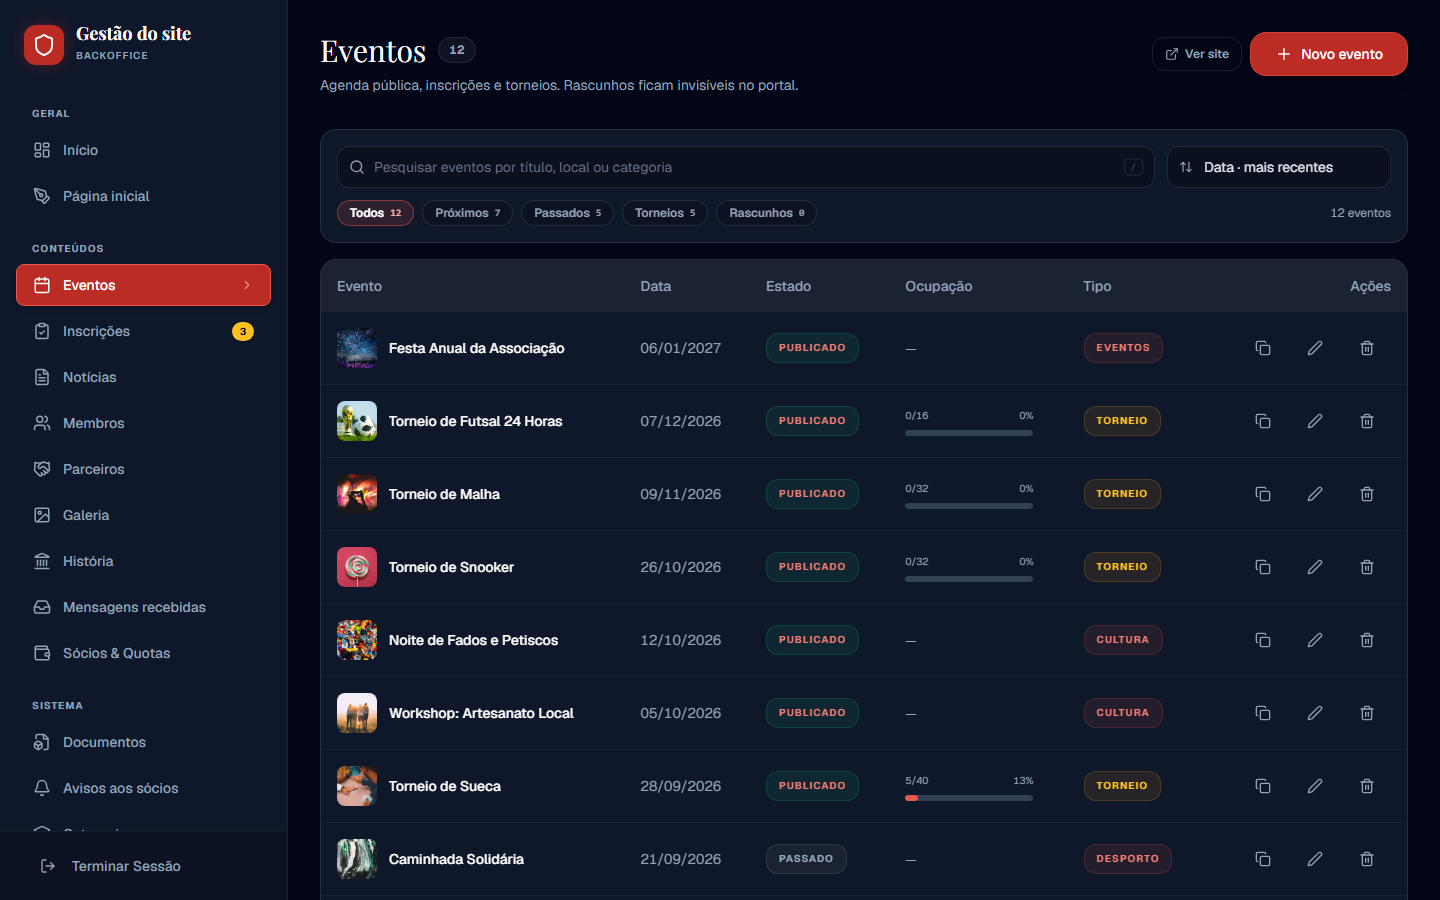
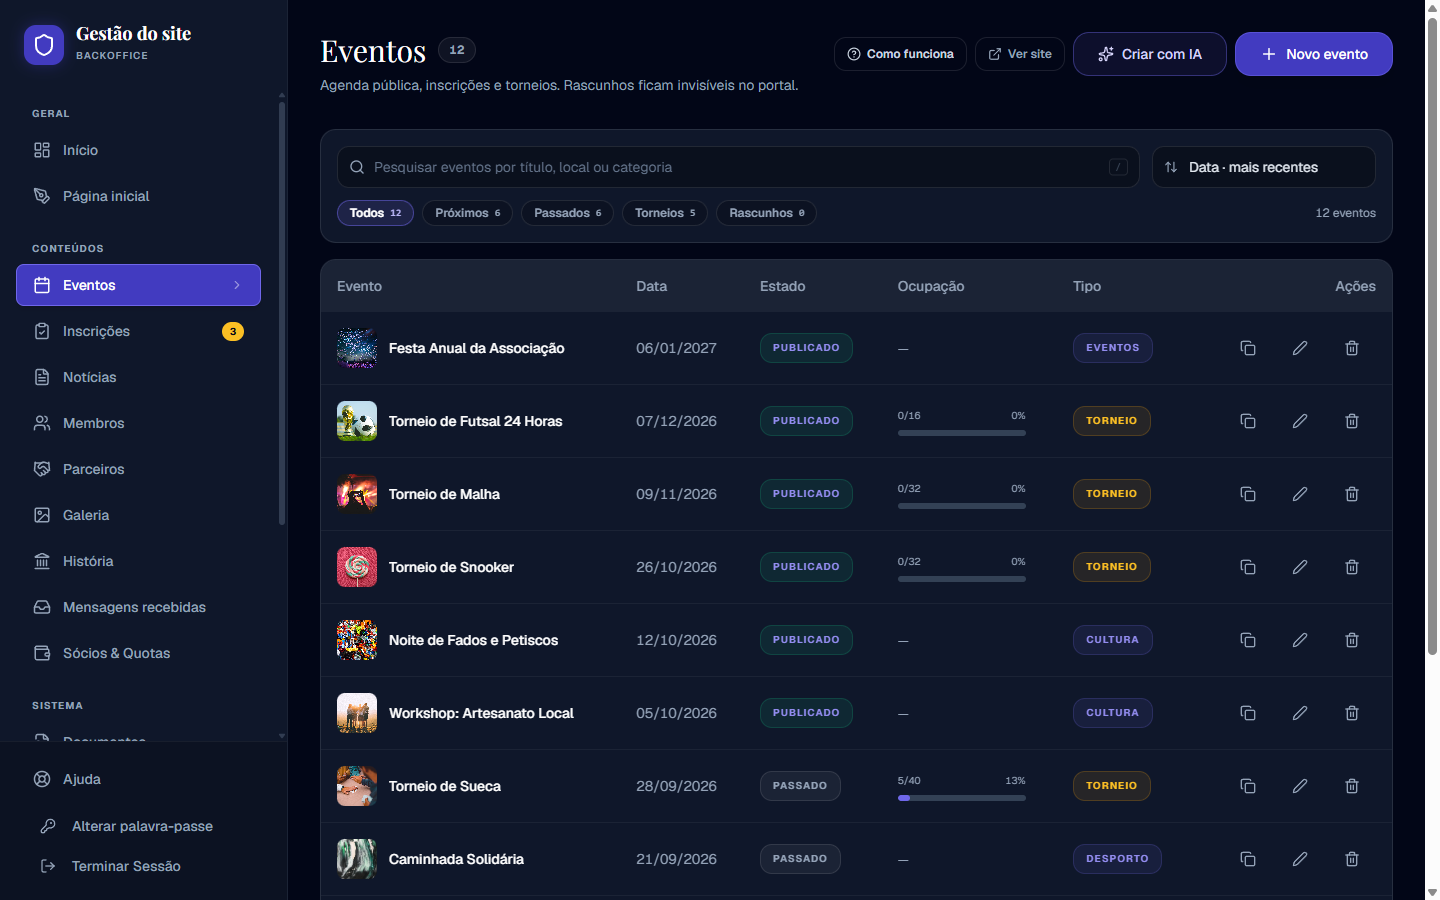
docs: README screenshots from the 2.17 demo (neutral brand), plus the AI studio and the help center

diff --git a/README.pt.md b/README.pt.md
@@ -75,6 +75,10 @@ run seed:seed`), sem marca de nenhum cliente. A visita guiada de um minuto está
 |:---:|:---:|
 | ![Dashboard admin](docs/assets/admin-dashboard.png) | ![Eventos no admin](docs/assets/admin-events.png) |
 
+| Estúdio de IA: uma frase dá o evento com cartaz | Ajuda no próprio site: guias, vídeos, "Como funciona" |
+|:---:|:---:|
+| ![Estúdio de IA](docs/assets/ai-studio.png) | ![Centro de ajuda](docs/assets/admin-help.png) |
+
 ## Sobre
 
 Associações culturais e recreativas, clubes desportivos, juntas de freguesia, IPSS e outras

diff --git a/README.md b/README.md
@@ -75,6 +75,10 @@ seed:seed`), captured with no client branding. The one-minute tour lives on the
 |:---:|:---:|
 | ![Admin dashboard](docs/assets/admin-dashboard.png) | ![Admin events](docs/assets/admin-events.png) |
 
+| AI studio: one sentence becomes an event with its poster | Built-in help: guides, videos, "Como funciona" |
+|:---:|:---:|
+| ![AI studio](docs/assets/ai-studio.png) | ![Help center](docs/assets/admin-help.png) |
+
 ## About
 
 Cultural and recreational associations, sports clubs, parish councils, non-profits and
